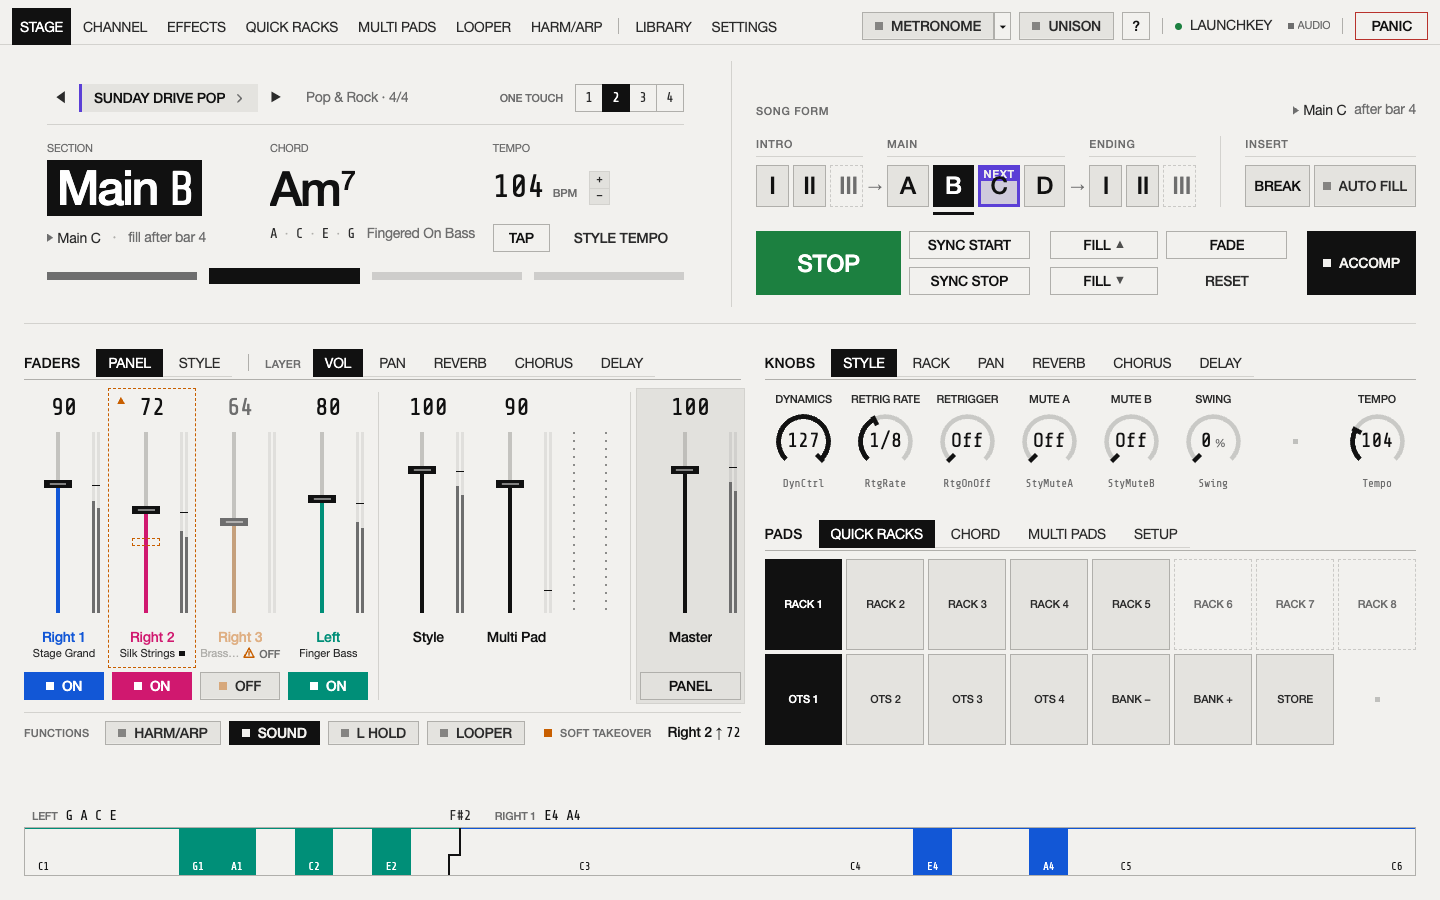
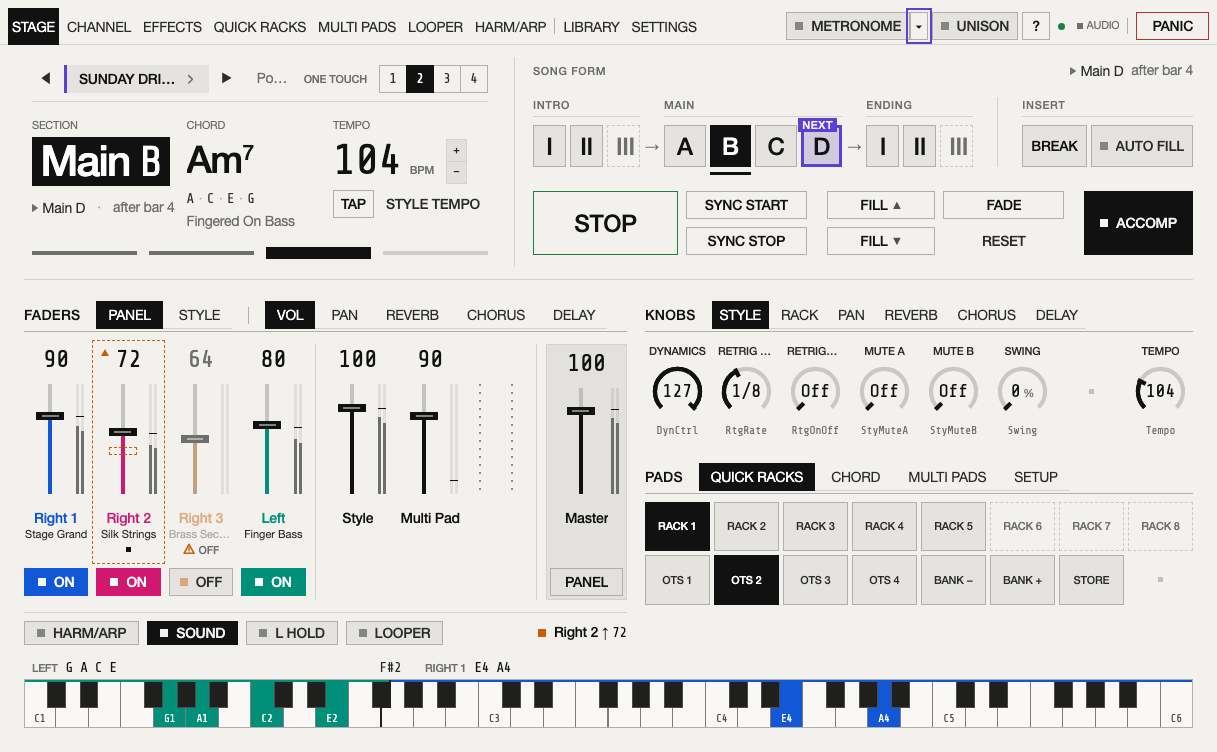
Stage shots at 1217 x 752 under all six packs; hero header keeps a genre stub
Claude-Session: https://claude.ai/code/session_01WyxP5tJPG6yU7MXhLDQJEs

diff --git a/src/library/yahaha/Display/Display.css b/src/library/yahaha/Display/Display.css
@@ -207,9 +207,11 @@
   .yh-display .yh-display__header {
     gap: var(--space-3);
   }
-  /* The genre and metre give way before the style's name: the name is what a player looks for. */
+  /* The genre and metre give way before the style's name (the name is what a player looks for),
+     down to a stub that still shows an ellipsis rather than a sliver. */
   .yh-display .yh-display__meta {
     flex-shrink: 100;
+    min-width: 2.5em;
   }
   .yh-display .yh-display__tempo-keys {
     gap: var(--space-1);
